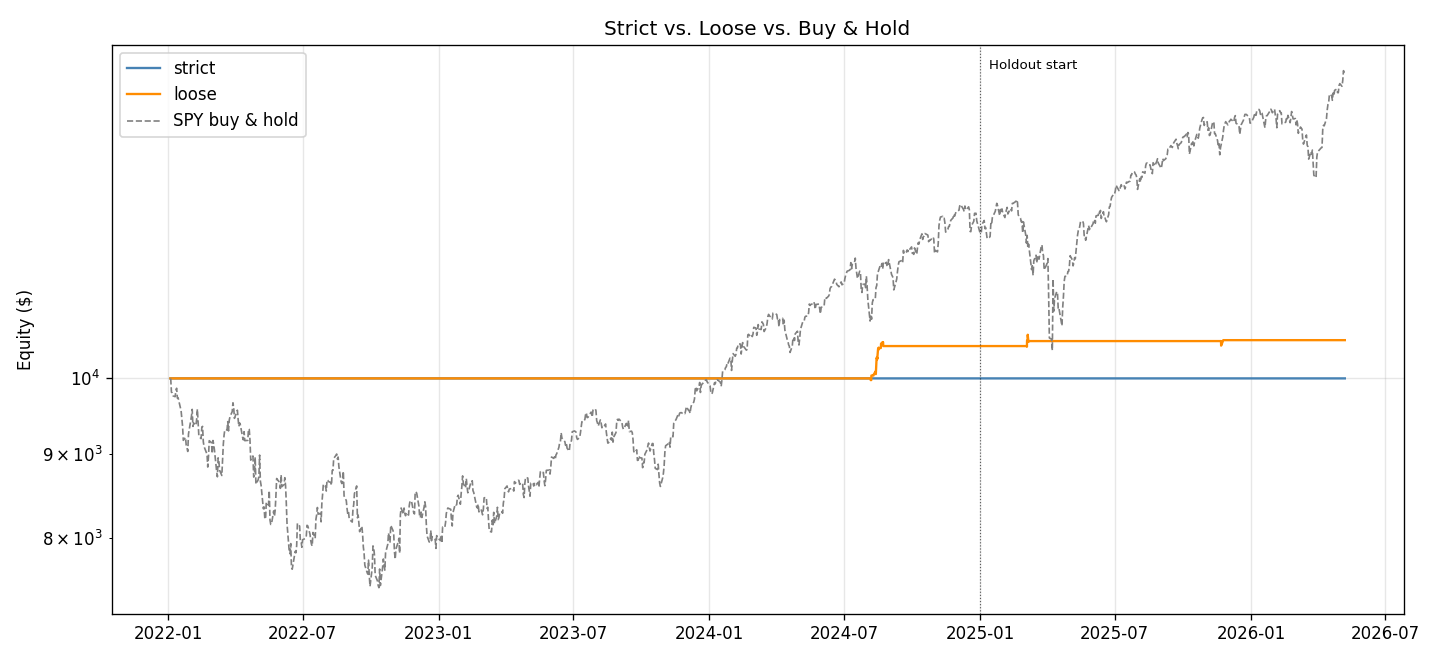
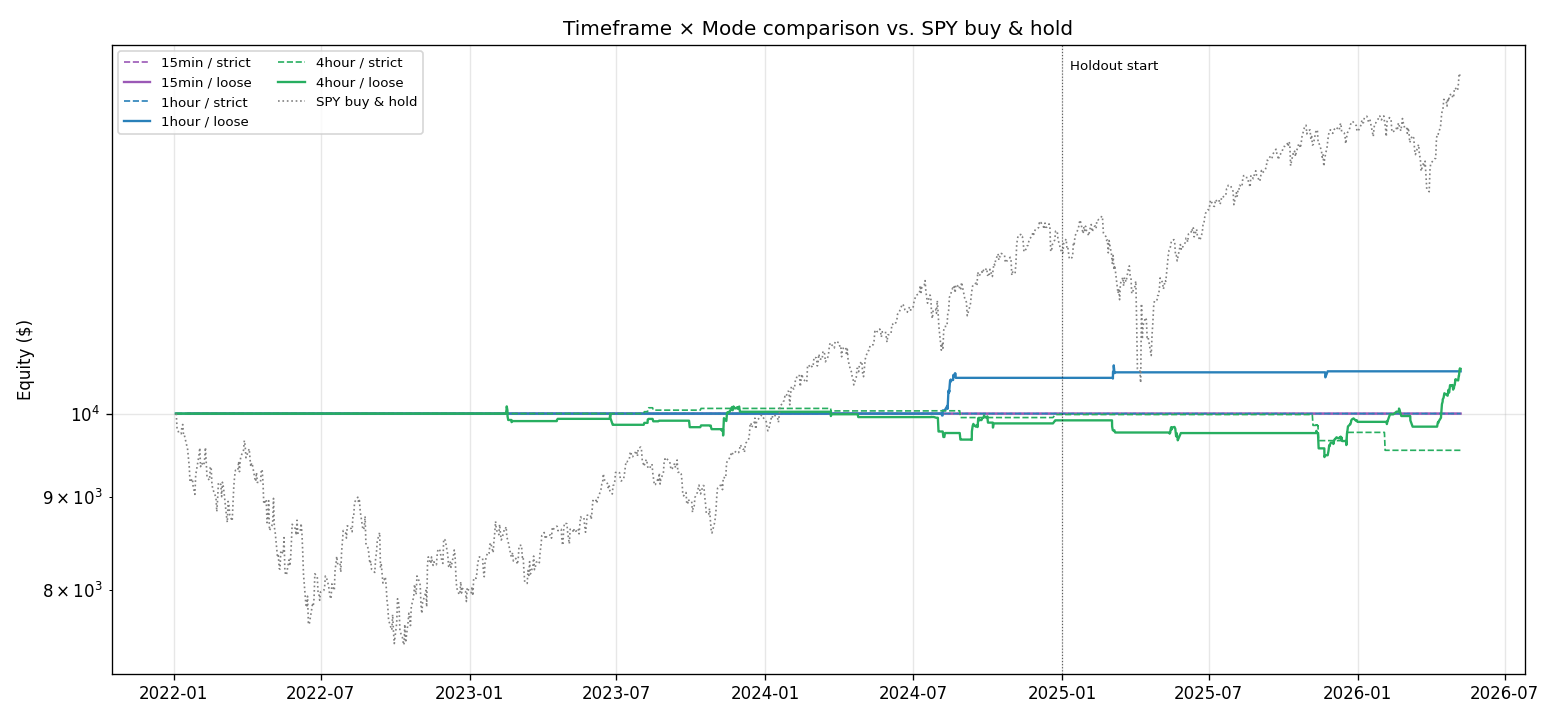
backtest: 2026-05-08T16:10:39Z

diff --git a/outputs/comparison.md b/outputs/comparison.md
@@ -1,16 +1,14 @@
-# Strict vs. Loose -- Comparison
+# Timeframe × Mode -- Comparison
 
-| Metric | Strict (Train) | Strict (Holdout) | Loose (Train) | Loose (Holdout) |
-|---|---|---|---|---|
-| Total Return [%] | 0.000 | 0.000 | 4.616 | 0.828 |
-| CAGR [%] | 0.000 | 0.000 | 1.522 | 0.619 |
-| Win Rate [%] | nan | nan | 75.000 | 50.000 |
-| Profit Factor | nan | nan | 29.130 | 2.333 |
-| Max Drawdown [%] | -0.000 | -0.000 | -0.553 | -1.503 |
-| Sharpe Ratio | nan | nan | 0.939 | 0.426 |
-| Total Trades | 0 | 0 | 4 | 6 |
-| Avg Trade Duration | nan | nan | 4 days 06:00:00 | 0 days 16:00:00 |
+| TF/Mode | Total Return [%] (Train) | Total Return [%] (Holdout) | CAGR [%] (Train) | CAGR [%] (Holdout) | Win Rate [%] (Train) | Win Rate [%] (Holdout) | Profit Factor (Train) | Profit Factor (Holdout) | Max Drawdown [%] (Train) | Max Drawdown [%] (Holdout) | Sharpe Ratio (Train) | Sharpe Ratio (Holdout) | Total Trades (Train) | Total Trades (Holdout) | Avg Trade Duration (Train) | Avg Trade Duration (Holdout) |
+|---|---|---|---|---|---|---|---|---|---|---|---|---|---|---|---|---|
+| 15min/strict | 0.000 | 0.000 | 0.000 | 0.000 | nan | nan | nan | nan | -0.000 | -0.000 | nan | nan | 0 | 0 | nan | nan |
+| 15min/loose | 0.000 | 0.000 | 0.000 | 0.000 | nan | nan | nan | nan | -0.000 | -0.000 | nan | nan | 0 | 0 | nan | nan |
+| 1hour/strict | 0.000 | 0.000 | 0.000 | 0.000 | nan | nan | nan | nan | -0.000 | -0.000 | nan | nan | 0 | 0 | nan | nan |
+| 1hour/loose | 4.616 | 0.828 | 1.522 | 0.619 | 75.000 | 50.000 | 29.130 | 2.333 | -0.553 | -1.503 | 0.939 | 0.426 | 4 | 6 | 4 days 06:00:00 | 0 days 16:00:00 |
+| 4hour/strict | -0.120 | -4.416 | -0.040 | -3.321 | 62.500 | 25.000 | 0.891 | 0.179 | -1.232 | -4.416 | -0.055 | -1.091 | 8 | 4 | 0 days 11:00:00 | 1 days 01:00:00 |
+| 4hour/loose | -0.850 | 6.711 | -0.286 | 4.977 | 44.444 | 56.250 | 1.311 | 1.926 | -4.142 | -4.531 | -0.107 | 1.137 | 27 | 16 | 2 days 09:00:00 | 4 days 22:00:00 |
 
-| SPY buy & hold (full span) | total 53.14% | CAGR 10.32% |  |  |
+_SPY buy & hold over full span: total **53.14%**, CAGR **10.32%**_
 
-_Generated: 2026-05-08T14:43:48.239548Z_
+_Generated: 2026-05-08T16:10:38.806311+00:00_

diff --git a/outputs/4hour/strict/stats.md b/outputs/4hour/strict/stats.md
@@ -1,0 +1,14 @@
+# QQQ Trend-Pullback (4hour/strict) -- Stats
+
+| Metric | Train | Holdout |
+|---|---|---|
+| Total Return [%] | -0.120 | -4.416 |
+| CAGR [%] | -0.040 | -3.321 |
+| Win Rate [%] | 62.500 | 25.000 |
+| Profit Factor | 0.891 | 0.179 |
+| Max Drawdown [%] | -1.232 | -4.416 |
+| Sharpe Ratio | -0.055 | -1.091 |
+| Total Trades | 8 | 4 |
+| Avg Trade Duration | 0 days 11:00:00 | 1 days 01:00:00 |
+
+_Generated: 2026-05-08T16:10:36.268229Z_

diff --git a/outputs/4hour/loose/stats.md b/outputs/4hour/loose/stats.md
@@ -1,0 +1,14 @@
+# QQQ Trend-Pullback (4hour/loose) -- Stats
+
+| Metric | Train | Holdout |
+|---|---|---|
+| Total Return [%] | -0.850 | 6.711 |
+| CAGR [%] | -0.286 | 4.977 |
+| Win Rate [%] | 44.444 | 56.250 |
+| Profit Factor | 1.311 | 1.926 |
+| Max Drawdown [%] | -4.142 | -4.531 |
+| Sharpe Ratio | -0.107 | 1.137 |
+| Total Trades | 27 | 16 |
+| Avg Trade Duration | 2 days 09:00:00 | 4 days 22:00:00 |
+
+_Generated: 2026-05-08T16:10:36.821707Z_

diff --git a/outputs/1hour/loose/stats.md b/outputs/1hour/loose/stats.md
@@ -1,0 +1,14 @@
+# QQQ Trend-Pullback (1hour/loose) -- Stats
+
+| Metric | Train | Holdout |
+|---|---|---|
+| Total Return [%] | 4.616 | 0.828 |
+| CAGR [%] | 1.522 | 0.619 |
+| Win Rate [%] | 75.000 | 50.000 |
+| Profit Factor | 29.130 | 2.333 |
+| Max Drawdown [%] | -0.553 | -1.503 |
+| Sharpe Ratio | 0.939 | 0.426 |
+| Total Trades | 4 | 6 |
+| Avg Trade Duration | 4 days 06:00:00 | 0 days 16:00:00 |
+
+_Generated: 2026-05-08T16:10:30.127837Z_

diff --git a/outputs/15min/strict/stats.md b/outputs/15min/strict/stats.md
@@ -1,0 +1,14 @@
+# QQQ Trend-Pullback (15min/strict) -- Stats
+
+| Metric | Train | Holdout |
+|---|---|---|
+| Total Return [%] | 0.000 | 0.000 |
+| CAGR [%] | 0.000 | 0.000 |
+| Win Rate [%] | nan | nan |
+| Profit Factor | nan | nan |
+| Max Drawdown [%] | -0.000 | -0.000 |
+| Sharpe Ratio | nan | nan |
+| Total Trades | 0 | 0 |
+| Avg Trade Duration | nan | nan |
+
+_Generated: 2026-05-08T16:10:12.414360Z_

diff --git a/outputs/1hour/strict/stats.md b/outputs/1hour/strict/stats.md
@@ -1,0 +1,14 @@
+# QQQ Trend-Pullback (1hour/strict) -- Stats
+
+| Metric | Train | Holdout |
+|---|---|---|
+| Total Return [%] | 0.000 | 0.000 |
+| CAGR [%] | 0.000 | 0.000 |
+| Win Rate [%] | nan | nan |
+| Profit Factor | nan | nan |
+| Max Drawdown [%] | -0.000 | -0.000 |
+| Sharpe Ratio | nan | nan |
+| Total Trades | 0 | 0 |
+| Avg Trade Duration | nan | nan |
+
+_Generated: 2026-05-08T16:10:29.547151Z_

diff --git a/outputs/15min/loose/stats.md b/outputs/15min/loose/stats.md
@@ -1,0 +1,14 @@
+# QQQ Trend-Pullback (15min/loose) -- Stats
+
+| Metric | Train | Holdout |
+|---|---|---|
+| Total Return [%] | 0.000 | 0.000 |
+| CAGR [%] | 0.000 | 0.000 |
+| Win Rate [%] | nan | nan |
+| Profit Factor | nan | nan |
+| Max Drawdown [%] | -0.000 | -0.000 |
+| Sharpe Ratio | nan | nan |
+| Total Trades | 0 | 0 |
+| Avg Trade Duration | nan | nan |
+
+_Generated: 2026-05-08T16:10:13.977948Z_
